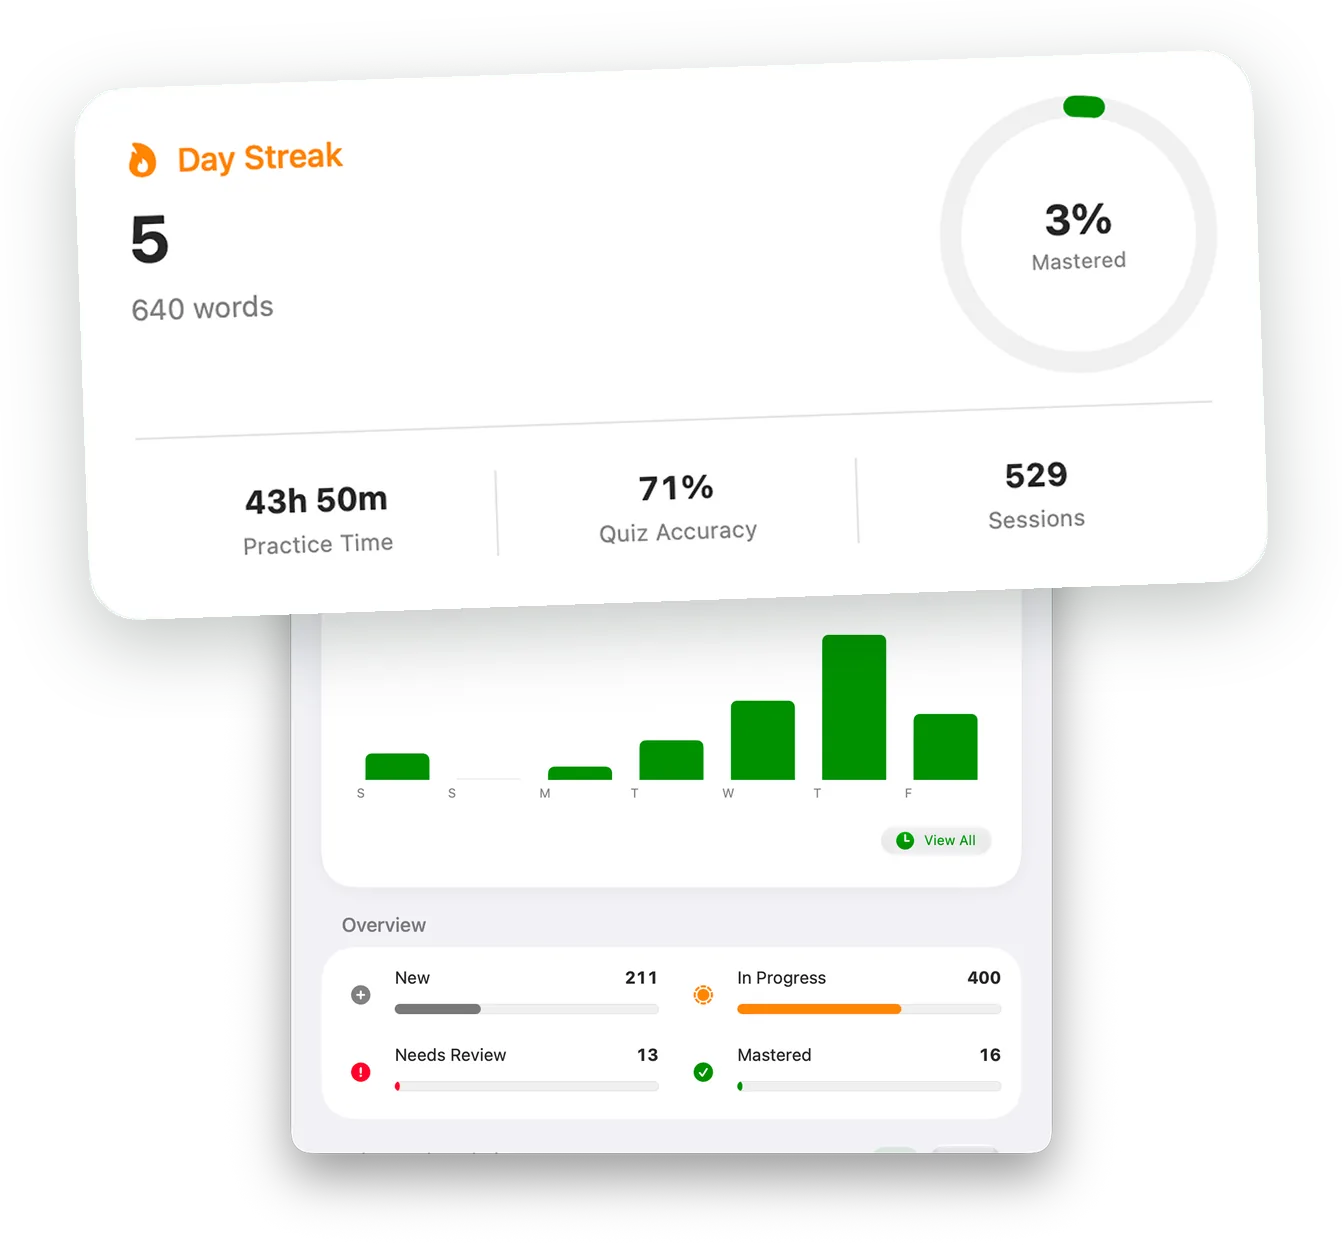
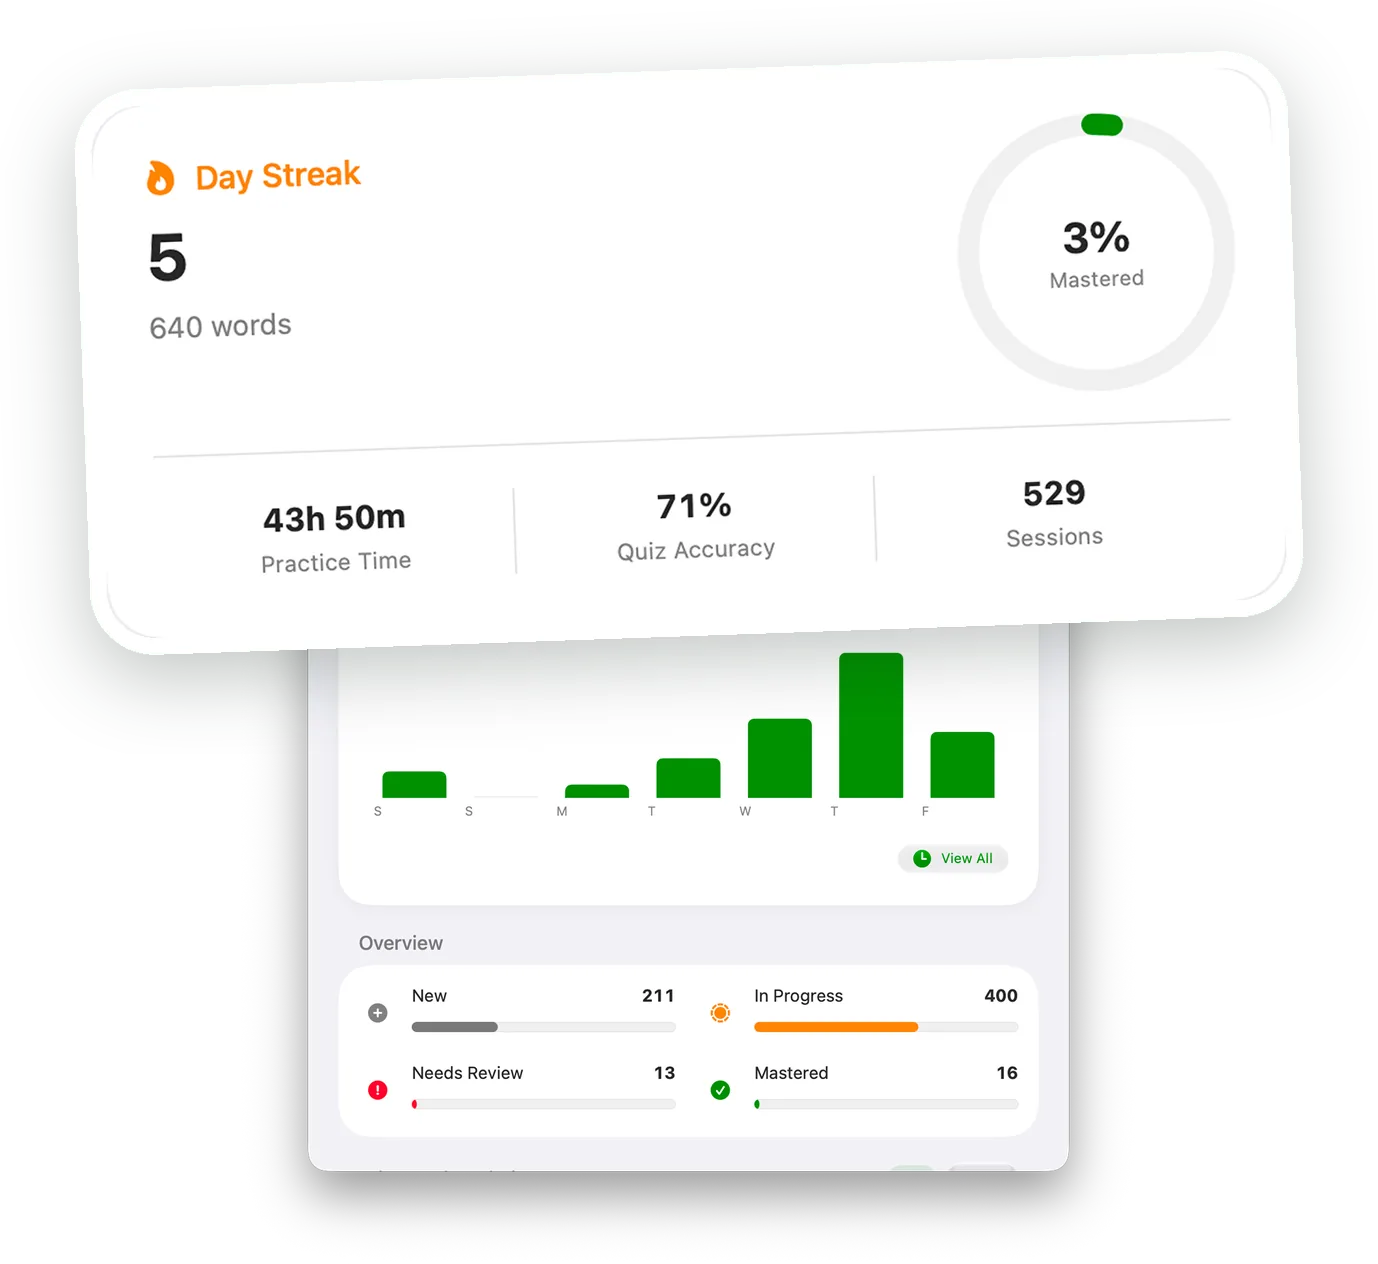
Section images: white border on every popped-out card; the Mac shows a normal-size window with a menu bar, a gently enlarged MCP card, and the duck on the laptop's corner.

diff --git a/index.html b/index.html
@@ -89,7 +89,7 @@
                     </div>
                     <p class="rating"><span class="stars" aria-hidden="true">★★★★★</span><span><b>4.8</b> on the App Store · 101 ratings</span></p>
                 </div>
-                <img src="/images/site/hero.webp" srcset="/images/site/hero.webp 720w, /images/site/hero@2x.webp 1440w" sizes="(min-width: 900px) 520px, 92vw" width="720" height="781" alt="The word viajar in My Dictionary on iPhone, with its card and the reading duck" fetchpriority="high">
+                <img src="/images/site/hero.webp" srcset="/images/site/hero.webp 720w, /images/site/hero@2x.webp 1440w" sizes="(min-width: 900px) 520px, 92vw" width="720" height="773" alt="The word viajar in My Dictionary on iPhone, with its card and the reading duck" fetchpriority="high">
             </div>
         </section>
 
@@ -105,7 +105,7 @@
                         <li>Add ready-made collections in one go</li>
                     </ul>
                 </div>
-                <img class="reveal" src="/images/site/capture.webp" srcset="/images/site/capture.webp 720w, /images/site/capture@2x.webp 1440w" sizes="(min-width: 900px) 520px, 92vw" width="720" height="912" alt="Your word list with Spanish words and tags" loading="lazy">
+                <img class="reveal" src="/images/site/capture.webp" srcset="/images/site/capture.webp 720w, /images/site/capture@2x.webp 1440w" sizes="(min-width: 900px) 520px, 92vw" width="720" height="903" alt="Your word list with Spanish words and tags" loading="lazy">
             </div>
         </section>
 
@@ -121,7 +121,7 @@
                         <li>Definitions in the language you choose</li>
                     </ul>
                 </div>
-                <img class="reveal" src="/images/site/definitions.webp" srcset="/images/site/definitions.webp 720w, /images/site/definitions@2x.webp 1440w" sizes="(min-width: 900px) 520px, 92vw" width="720" height="851" alt="The meanings of quedar with examples" loading="lazy">
+                <img class="reveal" src="/images/site/definitions.webp" srcset="/images/site/definitions.webp 720w, /images/site/definitions@2x.webp 1440w" sizes="(min-width: 900px) 520px, 92vw" width="720" height="831" alt="The meanings of quedar with examples" loading="lazy">
             </div>
         </section>
 
@@ -137,7 +137,7 @@
                         <li>A fresh Daily Puzzle from your own words</li>
                     </ul>
                 </div>
-                <img class="reveal" src="/images/site/games.webp" srcset="/images/site/games.webp 720w, /images/site/games@2x.webp 1440w" sizes="(min-width: 900px) 520px, 92vw" width="720" height="1059" alt="Match Pairs with a matched word and meaning" loading="lazy">
+                <img class="reveal" src="/images/site/games.webp" srcset="/images/site/games.webp 720w, /images/site/games@2x.webp 1440w" sizes="(min-width: 900px) 520px, 92vw" width="720" height="1052" alt="Match Pairs with a matched word and meaning" loading="lazy">
             </div>
         </section>
 
@@ -148,7 +148,7 @@
                     <h2>Watch your <span class="hl">streak</span> grow</h2>
                     <p>See your practice time, accuracy and what's due today, and watch words move from new to mastered.</p>
                 </div>
-                <img class="reveal" src="/images/site/progress.webp" srcset="/images/site/progress.webp 720w, /images/site/progress@2x.webp 1440w" sizes="(min-width: 900px) 520px, 92vw" width="720" height="668" alt="The Progress window with the day streak card" loading="lazy">
+                <img class="reveal" src="/images/site/progress.webp" srcset="/images/site/progress.webp 720w, /images/site/progress@2x.webp 1440w" sizes="(min-width: 900px) 520px, 92vw" width="720" height="660" alt="The Progress window with the day streak card" loading="lazy">
             </div>
         </section>
 
@@ -160,7 +160,7 @@
                     <p class="lede">The native Mac app syncs with your iPhone through iCloud. Its built-in MCP server lets AI assistants on your Mac search your dictionary — and add words with Pro.</p>
                     <a class="text-link" href="/docs/mcp/">Set up the MCP server</a>
                 </div>
-                <img class="reveal" src="/images/site/mac.webp" srcset="/images/site/mac.webp 960w, /images/site/mac@2x.webp 1920w" sizes="(min-width: 900px) 600px, 92vw" width="960" height="839" alt="My Dictionary on a MacBook with the MCP Server settings" loading="lazy">
+                <img class="reveal" src="/images/site/mac.webp" srcset="/images/site/mac.webp 960w, /images/site/mac@2x.webp 1920w" sizes="(min-width: 900px) 600px, 92vw" width="960" height="653" alt="My Dictionary on a MacBook with the MCP Server settings" loading="lazy">
             </div>
         </section>
 

diff --git a/scripts/build_images.py b/scripts/build_images.py
@@ -10,7 +10,7 @@ the app repo this site is a submodule of: docs/ASO/screenshots/source and docs/A
 import math
 from pathlib import Path
 
-from PIL import Image, ImageDraw, ImageFilter
+from PIL import Image, ImageDraw, ImageFilter, ImageFont
 
 SITE = Path(__file__).resolve().parent.parent
 ASO = SITE.parent / "docs" / "ASO"
@@ -62,11 +62,22 @@ def macbook(window, width):
                     px[x + dx, y] = c + (255,)
     win = load(window)
     box = win.getchannel("A").point(lambda v: 255 if v > 250 else 0).getbbox()
-    scale = min(sh * 0.86 / (box[3] - box[1]), sw * 0.9 / (box[2] - box[0]))
+    scale = min(sh * 0.62 / (box[3] - box[1]), sw * 0.62 / (box[2] - box[0]))
     win = win.resize((round(win.width * scale), round(win.height * scale)), Image.LANCZOS)
     wx = (sw - (box[2] - box[0]) * scale) / 2 - box[0] * scale
-    wy = (sh - (box[3] - box[1]) * scale) / 2 - box[1] * scale + sh * 0.02
+    wy = (sh - (box[3] - box[1]) * scale) / 2 - box[1] * scale + sh * 0.03
     wall.alpha_composite(win, (round(wx), round(wy)))
+    bar = round(sh * 0.03)
+    menu = Image.new("RGBA", (sw, bar), (255, 255, 255, 120))
+    d = ImageDraw.Draw(menu)
+    font = lambda w: ImageFont.truetype(f"/Library/Fonts/SF-Pro-Display-{w}.otf", round(bar * 0.56))
+    x, y = round(bar * 0.8), bar / 2
+    for i, item in enumerate(["\uf8ff", "My Dictionary", "File", "Edit", "View", "Window", "Help"]):
+        f = font("Bold" if i < 2 else "Medium")
+        d.text((x, y), item, font=f, fill=(29, 29, 31, 255), anchor="lm")
+        x += d.textlength(item, font=f) + bar * 0.9
+    d.text((sw - bar * 0.8, y), "9:41", font=font("Medium"), fill=(29, 29, 31, 255), anchor="rm")
+    wall.alpha_composite(menu, (0, 0))
     canvas.alpha_composite(rounded(wall, 30), (sx, sy))
     # draw the frame over the wallpaper, but keep our wallpaper where the frame's own one was
     framed = frame.copy()
@@ -89,13 +100,19 @@ def window(path, width):
 
 
 def card(path, width, radius_ratio=0.035, outline=None):
+    """A cut-out card at `width`, with rounded corners and a white border so rotated edges stay soft."""
     im = load(path)
     im = im.resize((width, round(width * im.height / im.width)), Image.LANCZOS)
-    im = rounded(im, round(width * radius_ratio))
+    radius = round(width * radius_ratio)
+    im = rounded(im, radius)
     if outline:
-        ImageDraw.Draw(im).rounded_rectangle((0, 0, im.width - 1, im.height - 1), round(width * radius_ratio),
+        ImageDraw.Draw(im).rounded_rectangle((0, 0, im.width - 1, im.height - 1), radius,
                                              outline=outline, width=max(4, width // 90))
-    return im
+    b = max(8, round(width * 0.014))
+    framed = Image.new("RGBA", (im.width + 2 * b, im.height + 2 * b), (0, 0, 0, 0))
+    ImageDraw.Draw(framed).rounded_rectangle((0, 0, framed.width - 1, framed.height - 1), radius + b, fill=(255, 255, 255, 255))
+    framed.alpha_composite(im, (b, b))
+    return framed
 
 
 def duck(name, width):
@@ -216,8 +233,8 @@ def main():
     c = Image.new("RGBA", (2100, 2000), (0, 0, 0, 0))
     mb, m = macbook(SRC / "mac" / "mcp.png", 1700); o = (150, 40)
     place(c, mb, *o, shadow=0.24)
-    pop(c, card(mac_cut / "mcp-card.png", 900, 0.05), at(o, m, BOX["mcp-card"]), rotate=-2)
-    place(c, duck("celebrating-duck", 380), 1580, 1020, shadow=0.16)
+    pop(c, card(mac_cut / "mcp-card.png", 700, 0.05), at(o, m, BOX["mcp-card"]), rotate=-2)
+    place(c, duck("celebrating-duck", 360), 1640, 700, shadow=0.16)
     save(c, "mac", widths=(960, 1920))
 
     # Small duck for the closing call to action
